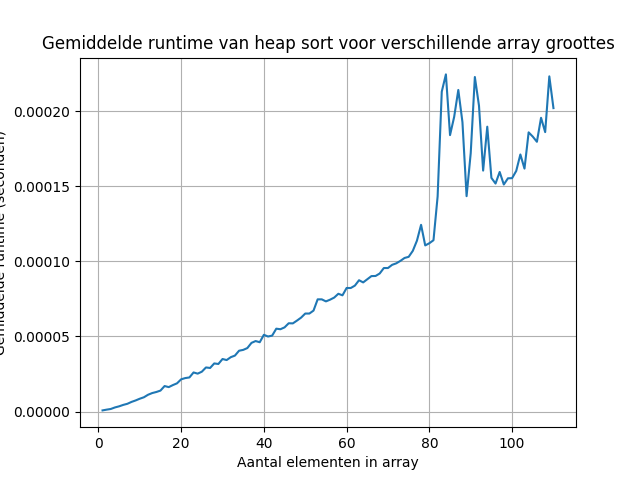
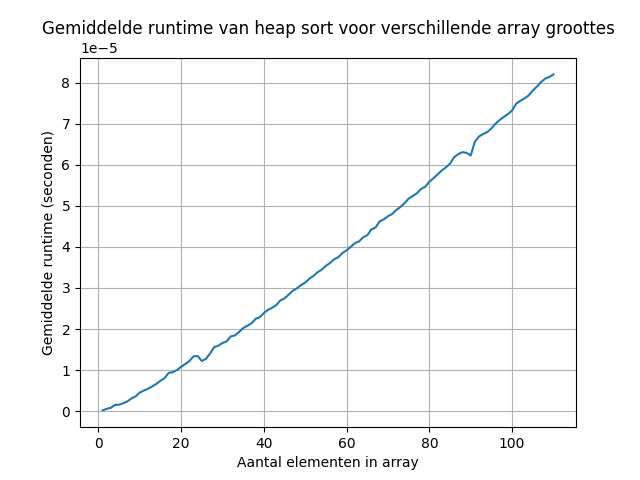
Comments gezet in veel bestanden, en de grafiek in de gitignore gezet

diff --git a/De 3 python bestanden/Heap_visual.py b/De 3 python bestanden/Heap_visual.py
@@ -14,7 +14,7 @@ except ImportError:
 
 #doe het 2e cijfer een **hoger** dan wat je echt wil
 array = list(range(1, 16))  # Pas hier de lengte van de array aan
-random.shuffle(array)
+random.shuffle(array) # Schud de array willekeurig
 
 LOG_FILE = "heapsortarray.txt"
 
@@ -23,19 +23,19 @@ momentopnames = []
 # Functie om stappen te loggen
 def registreer(arr, heap_grootte, actief=None):
     """Sla een kopie op van de huidige toestand voor animatie."""
-    momentopnames.append({
-        'array': arr.copy(),
-        'heap_grootte': heap_grootte,
-        'actief': actief
+    momentopnames.append({ # 'array': [...], 'heap_grootte': int, 'actief': (int, int) }
+        'array': arr.copy(), # huidige array toestand
+        'heap_grootte': heap_grootte, # huidige grootte van de heap
+        'actief': actief # welke indexen zijn actief (vergelijkd, gewisseld)
     })
 # Min-heapify functie
 def min_heapify(n, i):
     links = 2 * i + 1
     rechts = 2 * i + 2
-
+# Controleer of kinderen binnen bereik zijn
     if links >= n and rechts >= n: # beide kinderen buiten bereik
         return
-
+# Bepaal welke van de kinderen groter is
     if links < n and rechts < n: #  links < n and rechts < n
         registreer(array, n, actief=(links, rechts))
         gekozen = links if array[links] > array[rechts] else rechts
@@ -45,13 +45,13 @@ def min_heapify(n, i):
     else: # rechts < n
         registreer(array, n, actief=(rechts,))
         gekozen = rechts
-
+# Vergelijk en wissel indien nodig
     registreer(array, n, actief=(i, gekozen))
     if array[gekozen] > array[i]:
         array[i], array[gekozen] = array[gekozen], array[i]
         registreer(array, n, actief=(i, gekozen))
         min_heapify(n, gekozen)
-# Max-heapify functie
+# Max-heapify functie # voor sorteren van groot naar klein
 def max_heapify(n, i):
     links = 2 * i + 1
     rechts = 2 * i + 2
@@ -68,19 +68,19 @@ def max_heapify(n, i):
     else: # rechts < n
         registreer(array, n, actief=(rechts,))
         gekozen = rechts
-
+# Vergelijk en wissel indien nodig
     registreer(array, n, actief=(i, gekozen))
     if array[gekozen] < array[i]: #wijziging hier voor max-heap
         array[i], array[gekozen] = array[gekozen], array[i]
         registreer(array, n, actief=(i, gekozen))
         max_heapify(n, gekozen)
-
+# Bereken posities voor visualisatie
 def bereken_posities(n):
     """Bereken waar elke node in de boom moet komen."""
     posities = {}
     niveau = 0
     index = 0
-    
+    # Totale niveaus in de boom
     # Ga door elk niveau van de boom
     while index < n:
         aantal_op_niveau = 2 ** niveau  # Niveau 0: 1 node, niveau 1: 2 nodes, niveau 2: 4 nodes, etc.

diff --git a/De 3 python bestanden/Heap_sprint.py b/De 3 python bestanden/Heap_sprint.py
@@ -4,10 +4,10 @@ import time
 import matplotlib.pyplot as plt
 
 # Genereer X unieke getallen in willekeurige volgorde
-x_as_punten = list(range(1, 111))
+x_as_punten = list(range(1, 1001))
 runtime = []
 avarage_runtime = []
-hoevaak = 100
+hoevaak = 10
 
 def min_heapify(array, n, i):
     """Deze functie sorteert dingen met een min-heap"""
@@ -20,6 +20,7 @@ def min_heapify(array, n, i):
     # Dit stukje code kijkt of "largest" ook wel de grootste is, door hem te vergelijken met de twee children ervan 
     if left < n and array[left] > array[largest]:
         largest = left
+
 
     if right < n and array[right] > array[largest]:
         largest = right
@@ -53,8 +54,7 @@ for each in x_as_punten:
 plt.plot(x_as_punten, avarage_runtime)
 plt.xlabel('Aantal elementen in array')
 plt.ylabel('Gemiddelde runtime (seconden)')
-plt.title('Gemiddelde runtime van heap sort voor verschillende array groottes')
-plt.grid(True) # Voeg een raster toe voor betere leesbaarheid
-plt.savefig('heap_sort_runtime.png') # Sla de grafiek op als een PNG-bestand
+plt.title('Gemiddelde runtime van heap sort voor verschillende array groottes') 
+plt.grid(True) # Voeg een raster toe aan de grafiek
+plt.savefig('Heap_sort_runtime.png') # Sla de grafiek op als een PNG-bestand
 plt.show()
-
